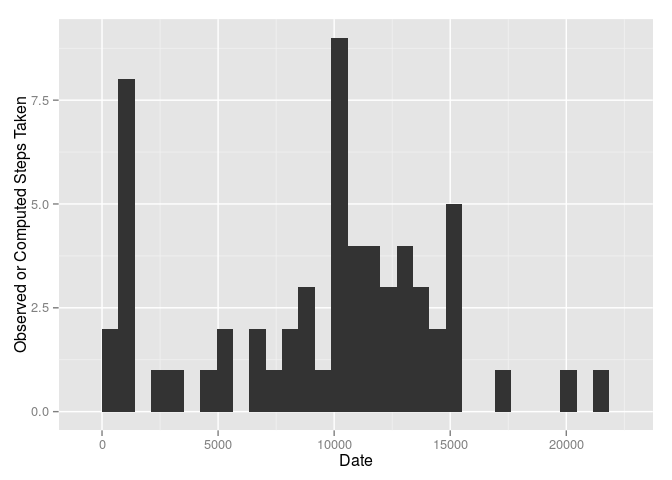
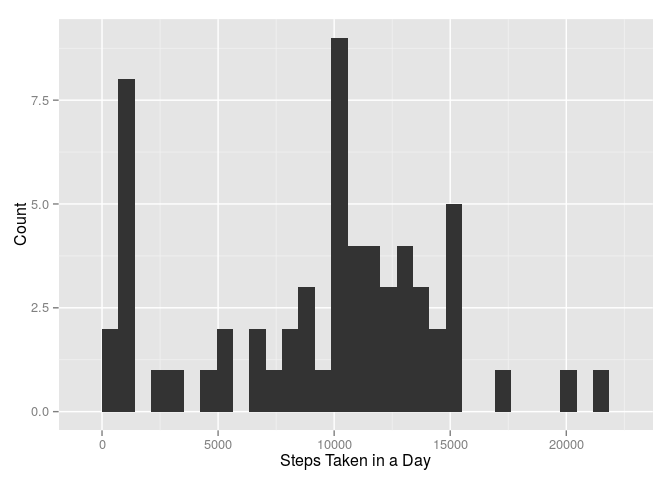
Changed labels

diff --git a/PA1_template.html b/PA1_template.html
@@ -101,9 +101,9 @@ sumData &lt;- sumData %&gt;%
   summarise(steps=sum(steps))
 
 # Make a line plot
-ggplot(sumData,aes(x=steps)) + geom_histogram()</code></pre>
+ggplot(sumData,aes(x=steps)) + geom_histogram() + labs(y=&quot;Count&quot;,x=&quot;Steps Taken in a Day&quot;)</code></pre>
 <pre><code>## stat_bin: binwidth defaulted to range/30. Use 'binwidth = x' to adjust this.</code></pre>
[2 lines of base64/hex data omitted]
 <ol start="2" style="list-style-type: decimal">
 <li>Calculate and report the mean and median total number of steps taken per day</li>
 </ol>
@@ -185,9 +185,9 @@ histData &lt;- histData %&gt;%
   group_by(date) %&gt;%
   summarise(totalSteps = sum(computedSteps))
 
-ggplot(histData,  aes(x=totalSteps) ) + geom_histogram() + labs(y=&quot;Observed or Computed Steps Taken&quot;,x=&quot;Date&quot;)</code></pre>
+ggplot(histData,  aes(x=totalSteps) ) + geom_histogram() + labs(y=&quot;Count&quot;,x=&quot;Steps Taken in a Day&quot;)</code></pre>
 <pre><code>## stat_bin: binwidth defaulted to range/30. Use 'binwidth = x' to adjust this.</code></pre>
[2 lines of base64/hex data omitted]
 <ol start="2" style="list-style-type: lower-alpha">
 <li>Compute the mean and median of the “filled” data set</li>
 </ol>

diff --git a/PA1_template.md b/PA1_template.md
@@ -56,7 +56,7 @@ sumData <- sumData %>%
   summarise(steps=sum(steps))
 
 # Make a line plot
-ggplot(sumData,aes(x=steps)) + geom_histogram()
+ggplot(sumData,aes(x=steps)) + geom_histogram() + labs(y="Count",x="Steps Taken in a Day")
 ```
 
 ```
@@ -179,7 +179,7 @@ histData <- histData %>%
   group_by(date) %>%
   summarise(totalSteps = sum(computedSteps))
 
-ggplot(histData,  aes(x=totalSteps) ) + geom_histogram() + labs(y="Observed or Computed Steps Taken",x="Date")
+ggplot(histData,  aes(x=totalSteps) ) + geom_histogram() + labs(y="Count",x="Steps Taken in a Day")
 ```
 
 ```
